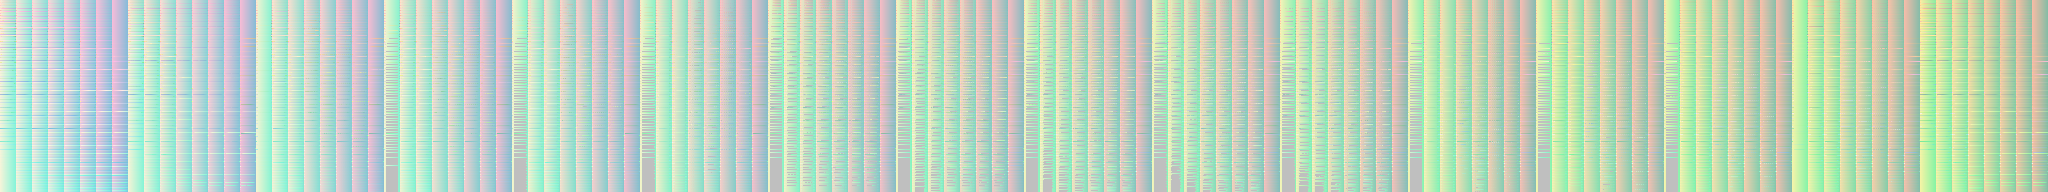
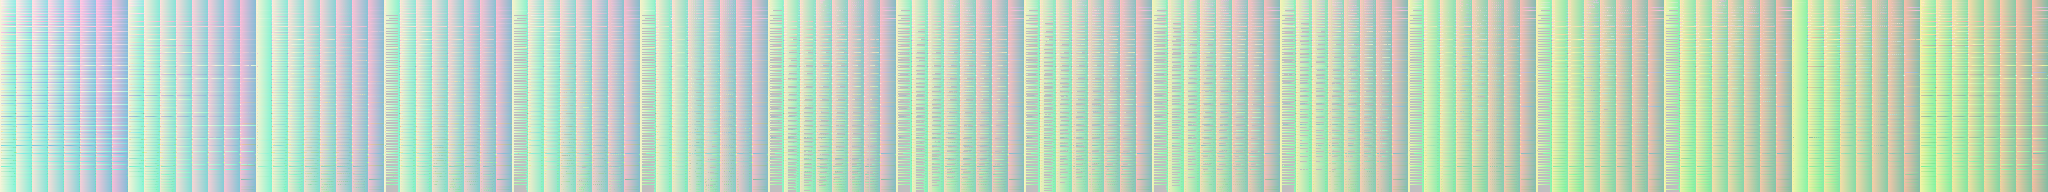
README revision

Changed region(s): [[0.0, 0.0, 1.0, 1.0], [0.2188, 0.9688, 0.25, 1.0], [0.125, 0.4688, 0.1562, 0.5]]

diff --git a/README.md b/README.md
@@ -11,9 +11,10 @@ Notice the pixel perfect shadows, which is a signature visual cue of ray queries
 
 By changing the ray origins from the camera to each probe’s location, and replacing screen pixels with samples on a sphere, the same ray query architecture can be used to sample radiance from probes at arbitrary points in space.
 
-In this example, I placed a 16 × 8 × 16 grid of probes throughout the Sponza scene and traced 192 rays from each probe. The four textures generated from a single tracing pass contains the hit points’ positions, normals, albedo, and metallic-roughness values, as shown below.
+In this example, I placed a 16 × 8 × 16 grid of probes throughout the Sponza scene and traced 192 rays from each probe. The four textures generated from a single tracing pass contains the hit points’ direct radiance, positions, normals, albedo, and metallic-roughness values, as shown below.
 
 <p align="center">
+  <img src="illustrations/ray_query_hit_radiance.png" alt="ray hit radiance" width="90%"><br>
   <img src="illustrations/ray_query_hit_position.png" alt="ray hit positions" width="90%"><br>
   <img src="illustrations/ray_query_hit_normal.png" alt="ray hit normals" width="90%"><br>
   <img src="illustrations/ray_query_hit_albedo.png" alt="ray hit albedo" width="90%"><br>
@@ -89,7 +90,14 @@ A similar idea also appears in rigid-body collision resolution, where warm start
 ## Multi-Bounce
 At first, I thought single-bounce indirect lighting was visually convincing enough. However, while adding skylight to the Sponza scene, I realized that it could not reach regions without a direct line of sight to the sky. Only through multiple bounces can skylight find its way into every corner of the scene.
 
-Multi-bounce lighting is easily achieved by adding a probe sampling pass and additively blending its output with the existing direct-lighting query results. With this approach, I can in theory recreate the scene demonstrated by the DDGI authors, where an entire bathroom is illuminated using only skylight.
+Multi-bounce lighting is easily achieved by adding a probe sampling pass and additively blending its output with the existing direct-lighting query results. Left shows a snippet of direct light radiance captured. Right shows the same snippet with indirect radiance from previous frame blended in
+
+<p align="center">
+  <img src="illustrations/snippet_direct.png" alt="snippet direct" width="40%">
+  <img src="illustrations/snippet_indirect.png" alt="snippet indirect" width="40%">
+</p>
+
+With this approach, I can in theory recreate the scene demonstrated by the DDGI authors, where an entire bathroom is illuminated using only skylight.
 
 Below is a comparison between single-bounce and multi-bounce lighting. Neither case uses direct lighting. The back of the curtain is supposed to be illuminated by light bouncing off surfaces in the atrium on the other side.
 
@@ -118,10 +126,10 @@ Every point light in the second image is set to have a very limited influence ra
 
 ## Cascaded Shadow Maps
 
+
 ## Cube Shadow Maps
 
 ## PCSS and Area Light Shadow Approximation
-
 
 
 
